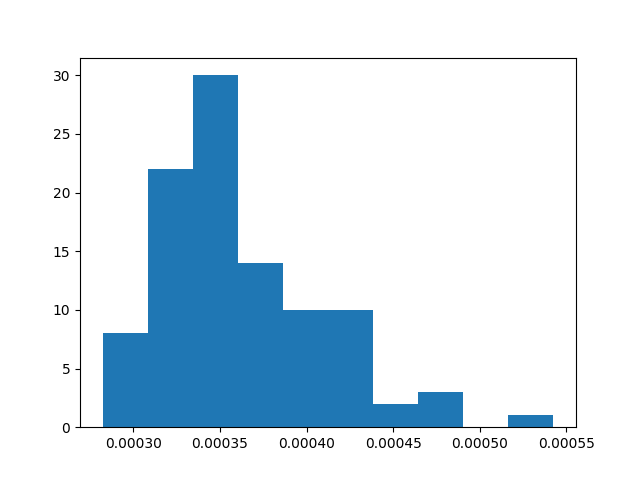
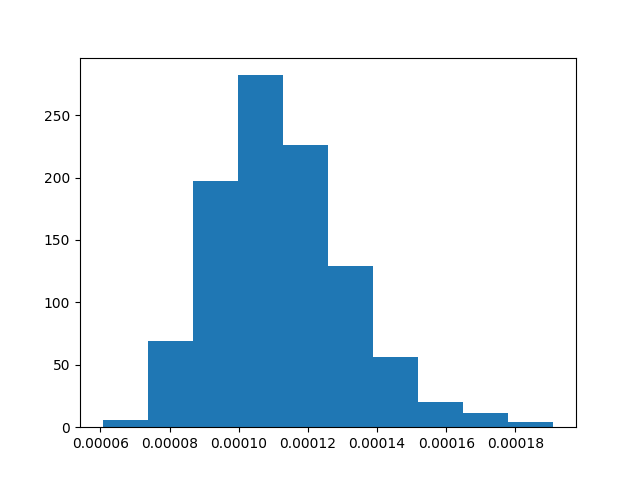
Updated to use uniform probing rather than k-means probing.

diff --git a/main.py b/main.py
@@ -2,6 +2,10 @@ from utils import *
 import matplotlib.pyplot as plt
 from functools import partial
 from multiprocessing import Pool
+import faiss 
+from indexing.faiss_utils import distance_to_centroid_faiss
+from indexing.faiss_indexers import DenseHNSWFlatIndexer
+from tqdm import tqdm
 
 def generate_data(data_points=1000, dim=512, rotation_count=1, generate_function=get_hypersphere_points):
     # get hyper sphere points
@@ -44,31 +48,43 @@ if __name__ == '__main__':
     rotation_count = 1
 
     # generate data
-    hypersphere_data = generate_data(data_points, dim, rotation_count,
-        generate_function=get_hypersphere_points)
-    splooch_data = generate_data(data_points, dim, rotation_count,
-        generate_function=partial(get_splooch_points, scale_upper_bound=0.25, splooches=100))
+    hypersphere_data = np.float32(generate_data(data_points, dim, rotation_count,
+        generate_function=get_hypersphere_points))
+    splooch_data = np.float32(generate_data(data_points, dim, rotation_count,
+        generate_function=partial(get_splooch_points, scale_upper_bound=0.25, splooches=100)))
 
     # interpolate between the two datasets
     def linear_interpolate(dataset1, dataset2):
+
         def interp(t):
             output = dataset1 * (1 - t) + dataset2 * t
             # normalize output
             output = output / np.linalg.norm(output, axis=1).reshape(-1, 1)
             return output
 
-        return interp
+        def construct_faiss(interp):
+            # create a faiss index from linear interpolation data data
+            indexer = DenseHNSWFlatIndexer()
+            indexer.init_index(dim)
+            # We need to associate each vector with a database id
+            zipped_data = list(map(lambda x: x, zip(range(interp.shape[0]), list(interp))))
+            indexer.index_data(zipped_data)
+            indexer.get_copy_of_points()
+            return indexer
+
+        def compose(t):
+            return construct_faiss(interp(t))
+
+        return compose
 
     # interpolate
     interp = linear_interpolate(hypersphere_data, splooch_data)
-    # multiprocessing
-    pool = Pool(processes=8)
+
     # get variance
-    variances = pool.map(partial(get_k_means_variance, k=cluster_count), [interp(i/10) for i in range(10)])
-    pool.close()
+    variances = list()
+    for i in tqdm(range(10)):
+        variances.append(distance_to_centroid_faiss(interp(float(i)/10.)))
 
-
-    
     for idx, var in enumerate(variances):
         # compute a histogram using matplotlib
         plt.hist(var)

diff --git a/indexing/faiss_utils.py b/indexing/faiss_utils.py
@@ -1,10 +1,10 @@
 # This file is used to load faiss indexes and compute our variance metric
 
-from ..utils import get_hypersphere_points, compute_distances_from_centroid
-from faiss_indexers import DenseHNSWFlatIndexer
+from utils import get_hypersphere_points, compute_distances_from_centroid
+from indexing.faiss_indexers import DenseHNSWFlatIndexer
 import numpy as np
 
-def distance_to_centroid_faiss(indexer : DenseHNSWFlatIndexer, query_points = 1000, points_per_query = 100):
+def distance_to_centroid_faiss(indexer : DenseHNSWFlatIndexer, query_points_amount = 1000, points_per_query = 100):
     """
     Computes the variance on distance to centroid of a faiss index.
     :param index: faiss index
@@ -12,26 +12,25 @@ def distance_to_centroid_faiss(indexer : DenseHNSWFlatIndexer, query_points = 10
     :param points_per_query: number of points per query
     :return: numpy array of shape (points, dim)
     """
-    # get the points
-    data = get_hypersphere_points(query_points, indexer.index.d)
+    # gets probing points
+    query_points = np.float32(get_hypersphere_points(query_points_amount, indexer.index.d-1))
 
     # sample the faiss index around each of these points
-    _, indexes = indexer.search_knn(data, points_per_query)
+    _, indexes = indexer.search_knn(query_points, points_per_query)
     # get the points
     pts = list()
-
     # lets assume for now that pts is grouped by query points, although i am not sure that this is the case lol
-    for i in range(query_points):
-        pts += list()
+    for i in range(query_points_amount):
+        pts.append(list())
         for idx in indexes[i]:
             pts[i].append(indexer.copy_of_points[idx])
     
     # pts is now a list of list of np.array, lets convert it a list of np.array
-    pts = [np.array(pts[i]) for i in range(query_points)]
+    pts = [np.array(pts[i]) for i in range(query_points_amount)]
 
     # compute the distance to centroid for each of the points
-    distances = [compute_distances_from_centroid(pts[i]) for i in range(query_points)]
+    distances = [compute_distances_from_centroid(pts[i]) for i in range(query_points_amount)]
     # compute the variance of each set of distances
-    variances = [np.var(distances[i]) for i in range(query_points)]
+    variances = [np.var(distances[i]) for i in range(query_points_amount)]
 
     return np.array(variances)

diff --git a/indexing/faiss_indexers.py b/indexing/faiss_indexers.py
@@ -66,7 +66,7 @@ class DenseIndexer(object):
         """
         Get a copy of the points in the index.
         """
-        self.copy_of_points = self.index.reconstruct_n(self.index.ntotal)
+        self.copy_of_points = self.index.reconstruct_n(0, self.index.ntotal)
 
     def serialize(self, file: str):
         """

diff --git a/utils.py b/utils.py
@@ -1,7 +1,6 @@
 # implements a number of helper functions to compute k-means clusters and related
 
 import numpy as np
-import pandas as pd
 from sklearn.cluster import KMeans, DBSCAN
 from scipy.stats import ortho_group
 import skdim.datasets
